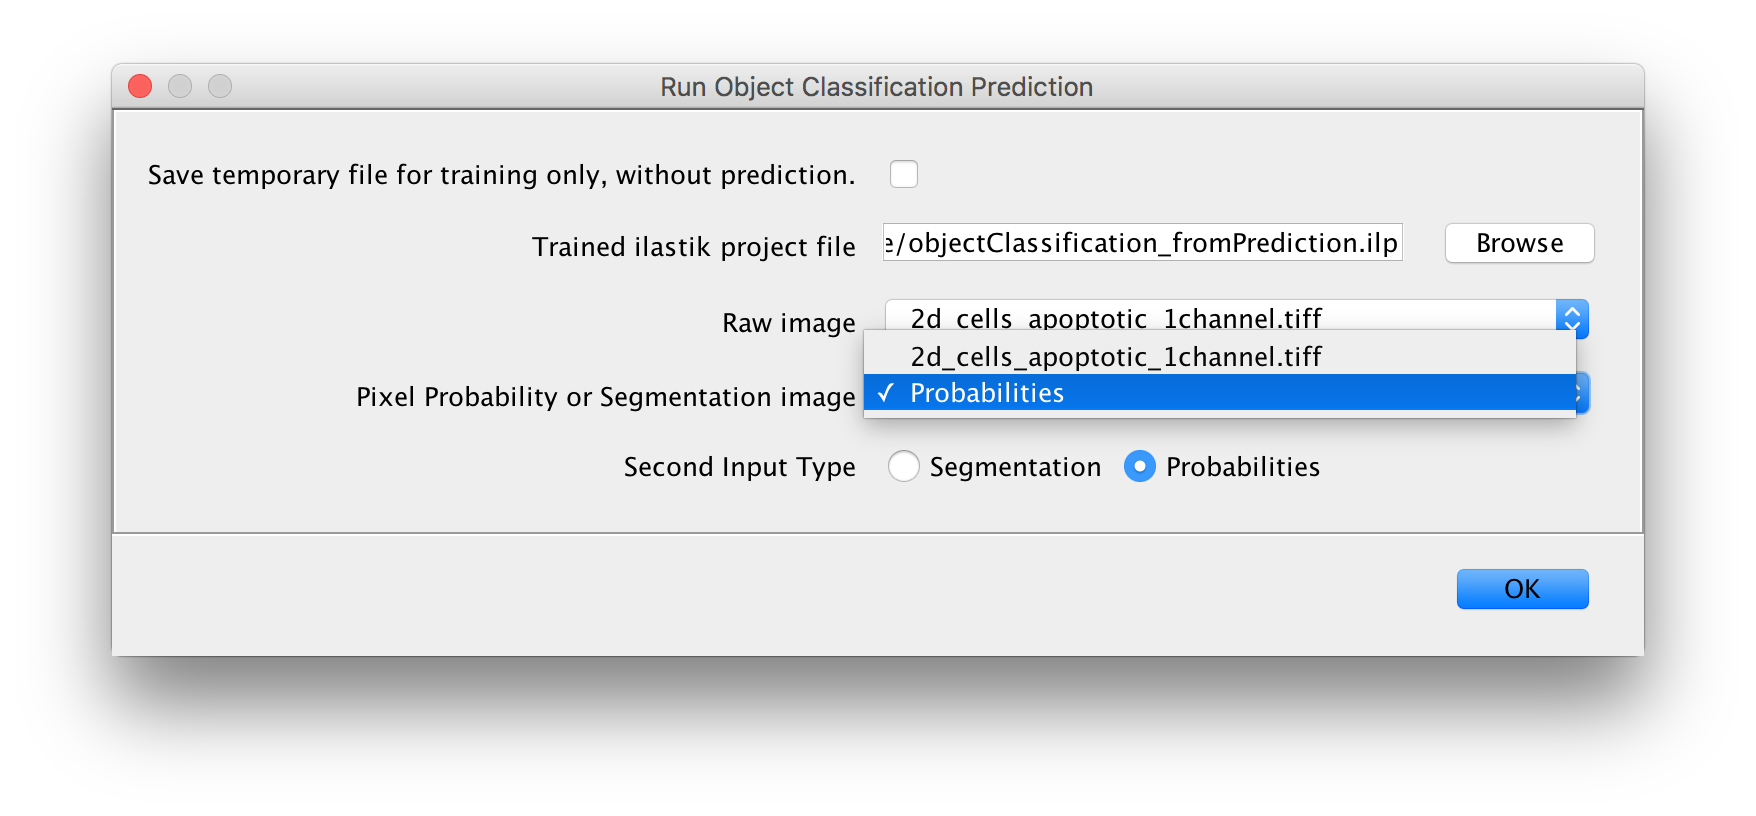
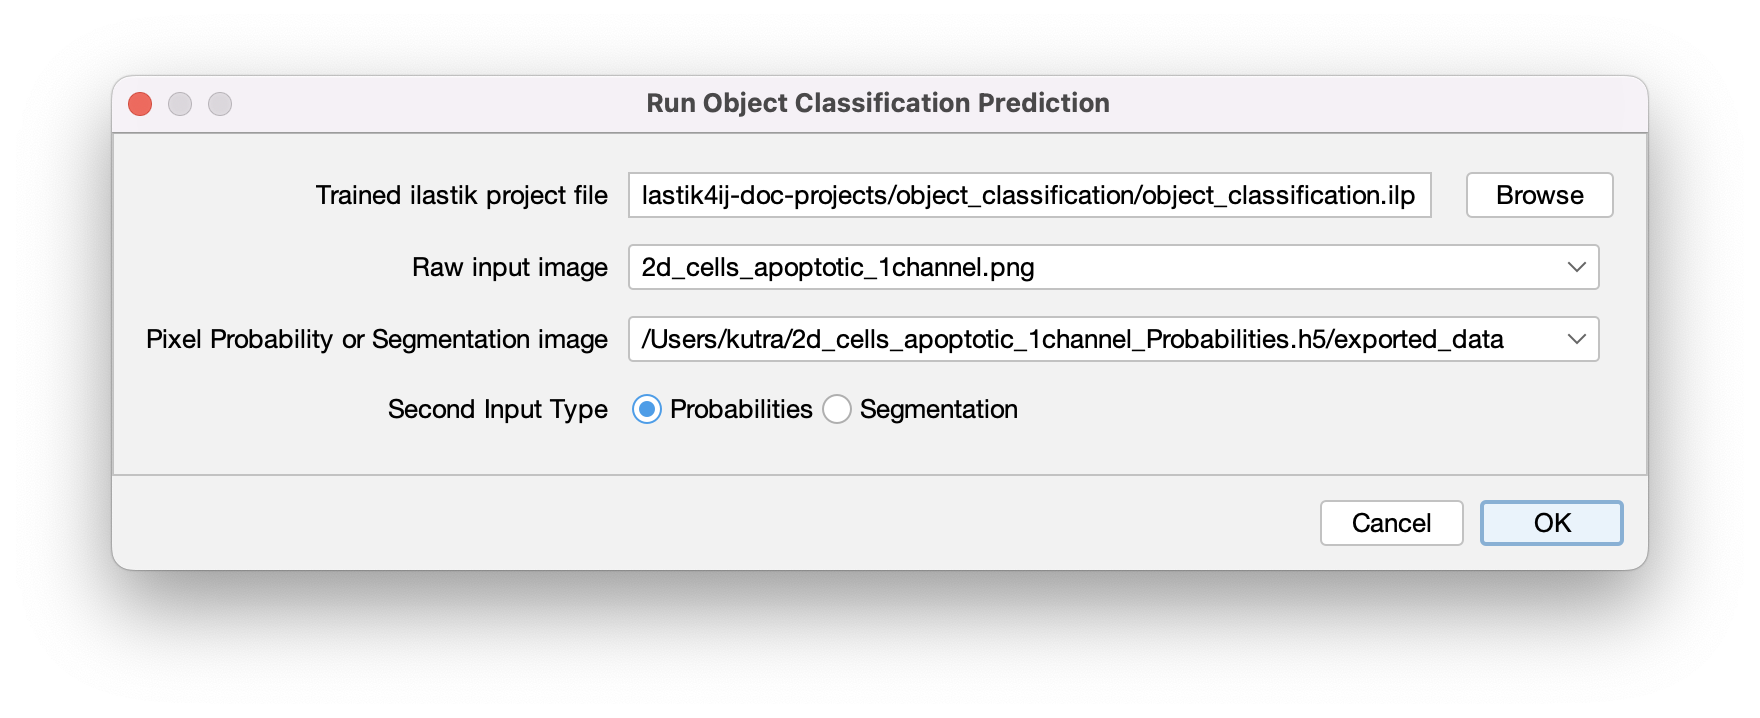
doc: update object classification

Changed region(s): [[0.0615, 0.0919, 0.9533, 0.5822], [0.0615, 0.766, 0.9533, 0.8886], [0.0615, 0.6435, 0.9533, 0.766]]

diff --git a/README.md b/README.md
@@ -165,7 +165,8 @@ A more complex example can be found in [`./examples/pixel_classification.ijm`](.
 
 
 ### Object Classification
-Found at `Plugins -> ilastik -> Run Object Classification Prediction`.
+
+Command to run pretrained [Object Classification](https://www.ilastik.org/documentation/objects/objects): `Plugins -> ilastik -> Run Object Classification Prediction`.
 
 ![Object Classification Dialog](./doc/screenshots/IJ-OC-dialog.png)
 
@@ -178,8 +179,15 @@ Found at `Plugins -> ilastik -> Run Object Classification Prediction`.
 
 **Output:**
 
-* a new image where the pixels of each object get assigned the value that corresponds to the class that was predicted for this object. 
+* a new image where the pixels of each object get assigned the value that corresponds to the class that was predicted for this object (Object Predictions output from ilastik). 
+  Initially this image might appear black.
+  You can apply a colormap to it (e.g. `Image -> Lookup Tables -> glasbey_on_dark`) to see the result.
   ![Object Classification Output](./doc/screenshots/IJ-OC-output.png)
+
+
+#### Example macro usage
+
+A basic macro example for running object classification on a single image can be found in [`./examples/object_classification.ijm`](./examples/object_classification.ijm).
 
 
 ### Boundary-based Segmentation with Multicut
